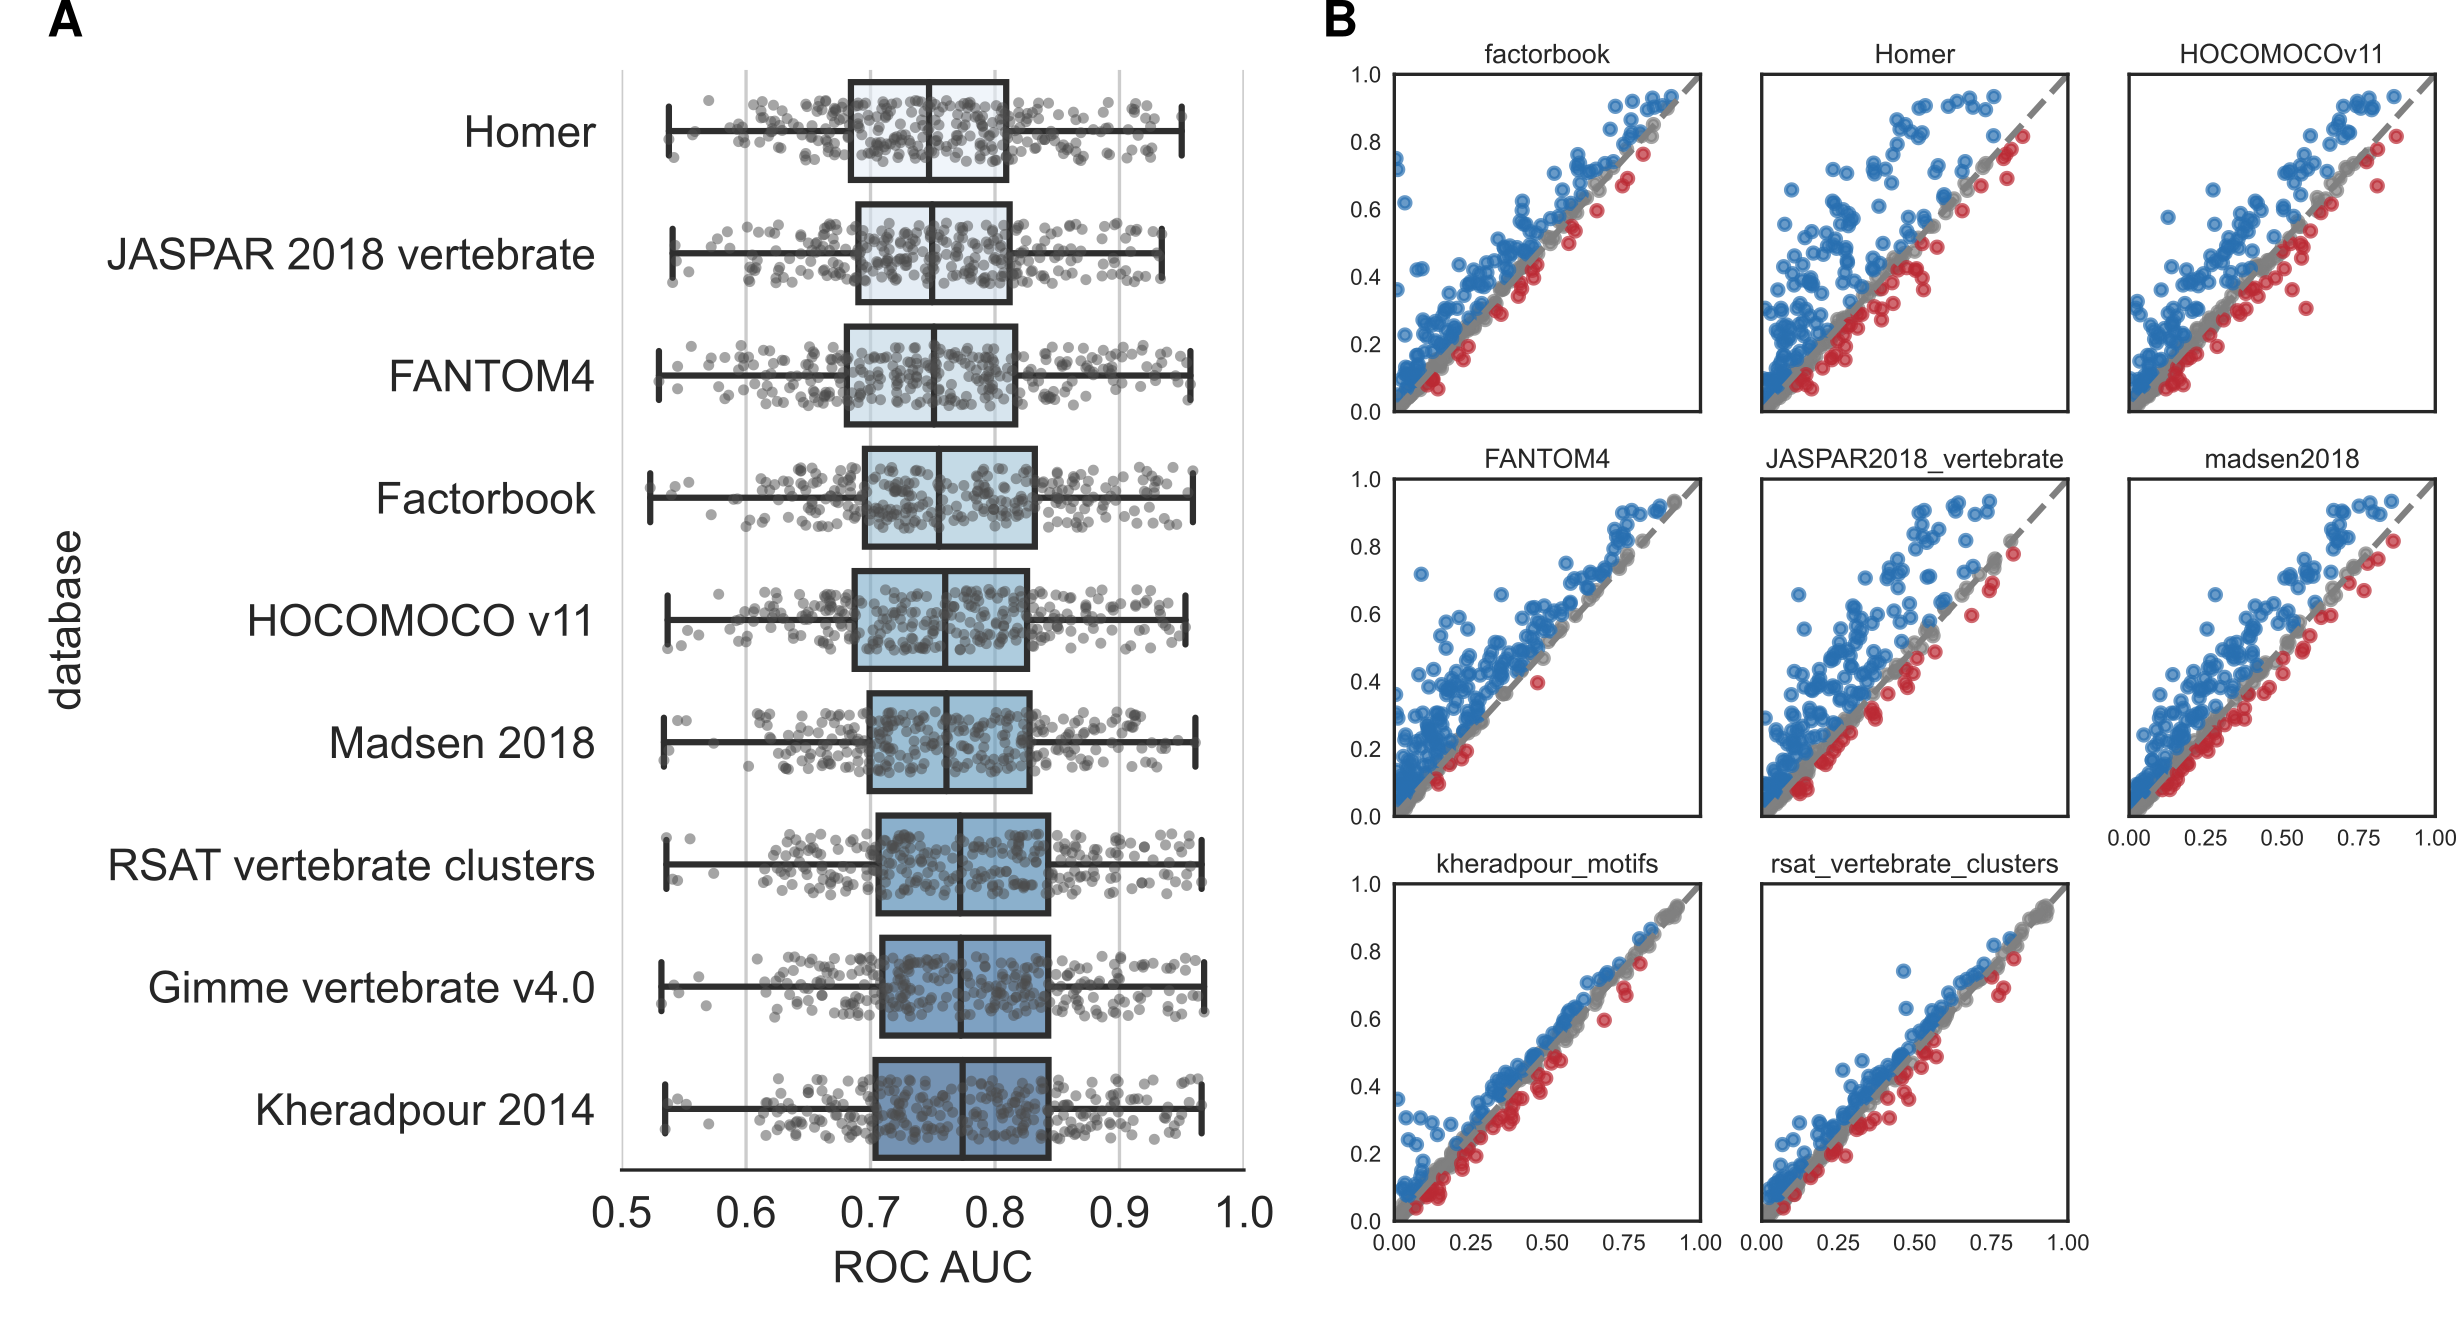
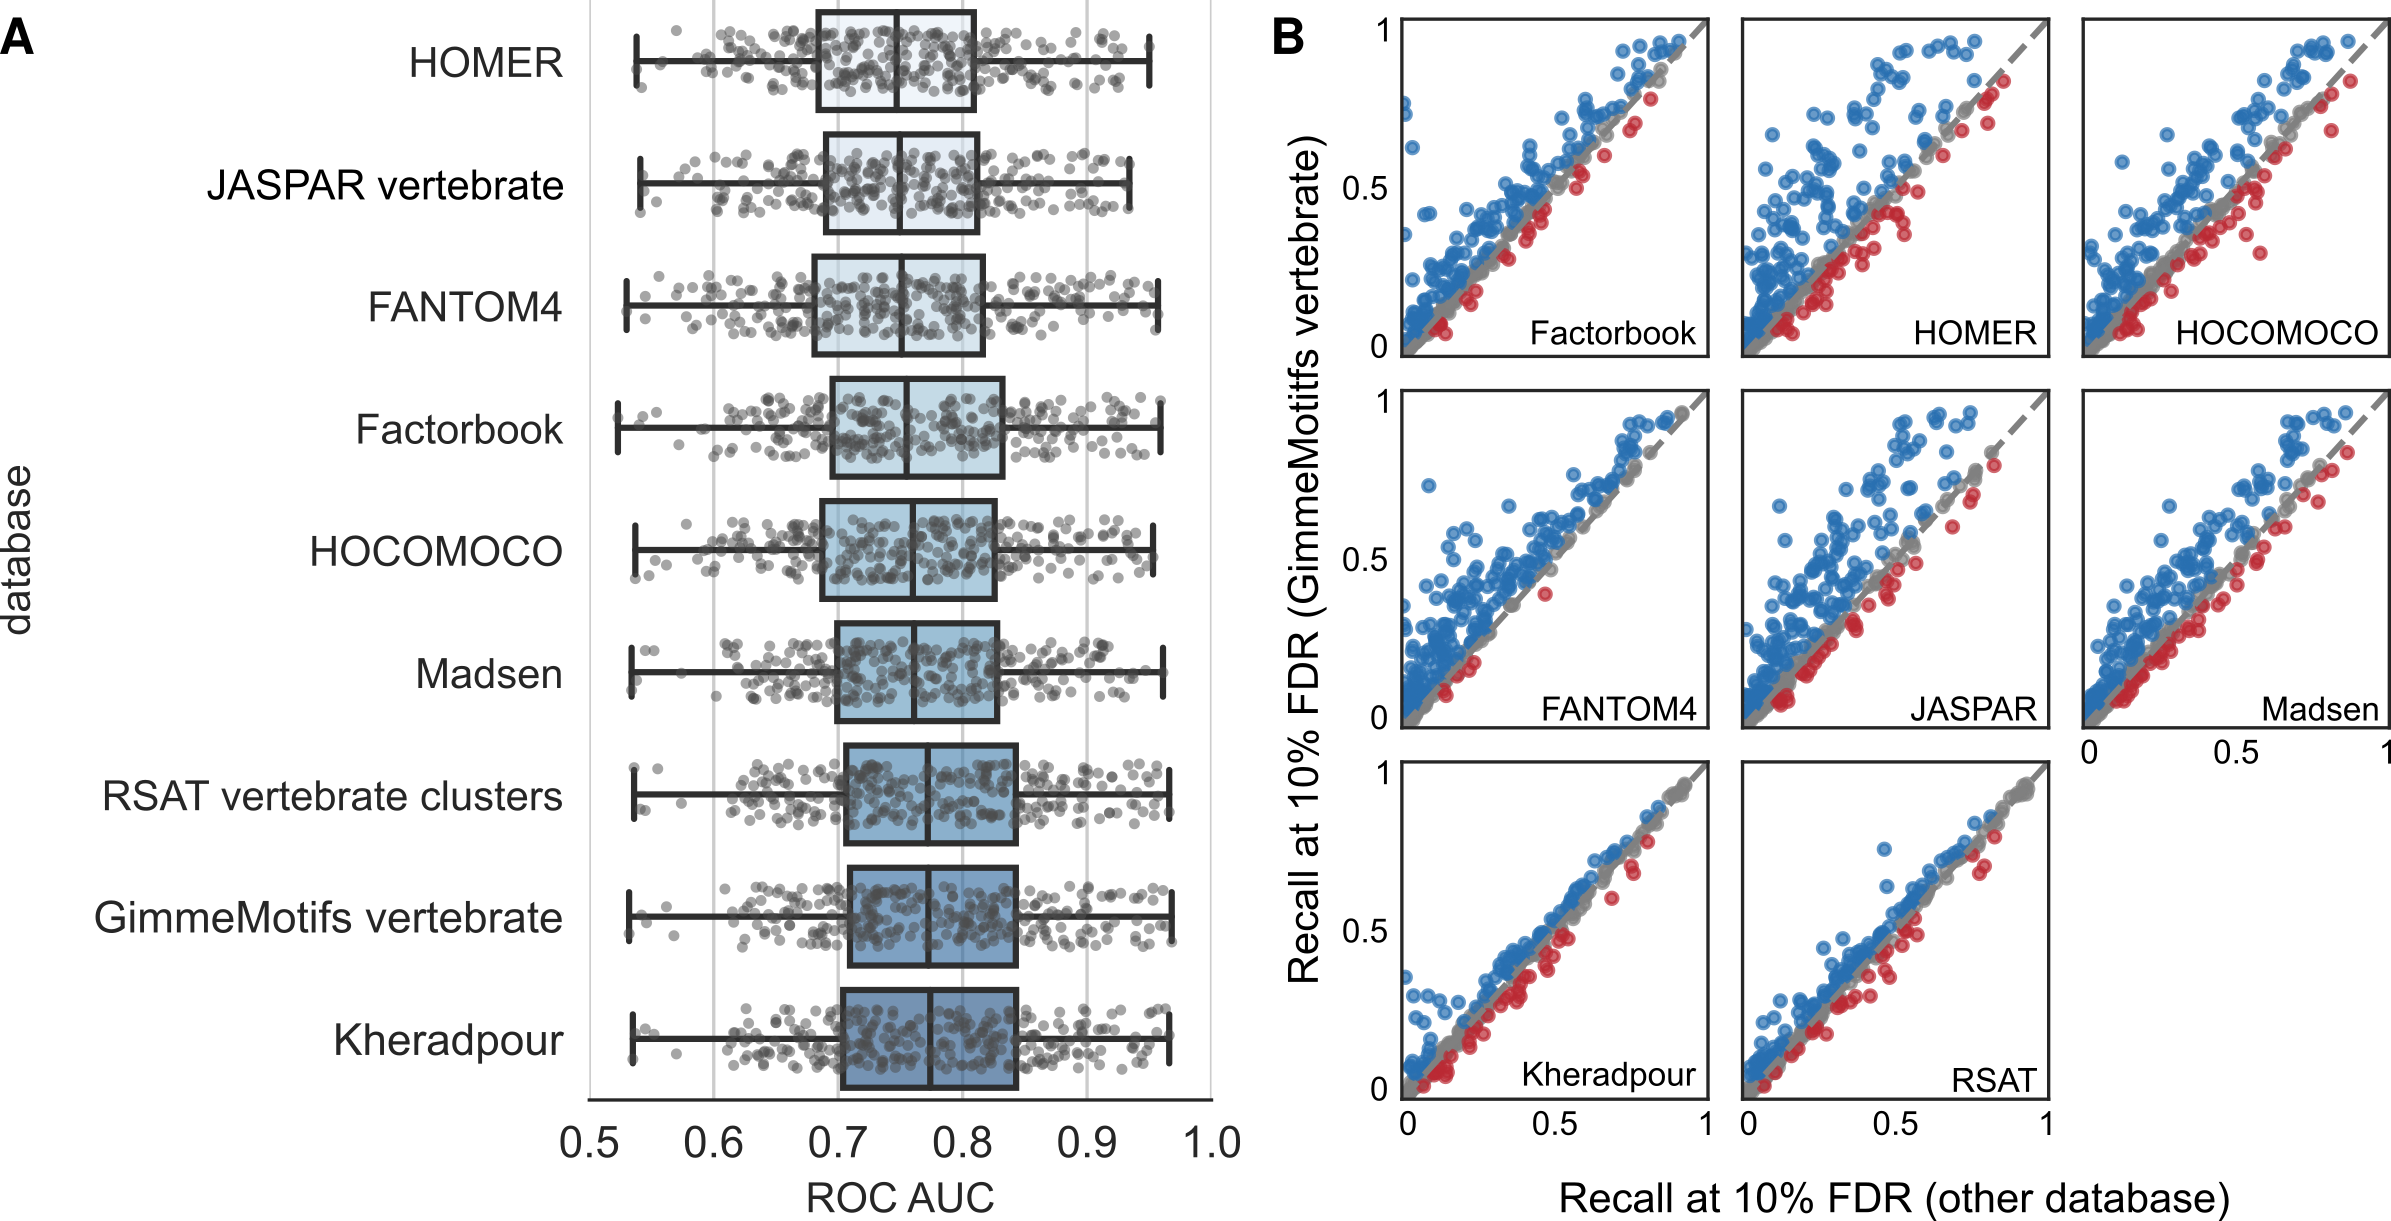
Updated figures

diff --git a/content/03.findings.md b/content/03.findings.md
@@ -103,6 +103,17 @@ factors such as POL2, TAF7 and GTF2B, the PRC2-subunit SUZ12 and the H3K9
 methyltransferase SETDB1. The factors with the highest ROC AUC are CTCF and
 members of the cohesin complex, SMC3 and RAD21, that bind at CTCF sites. 
 
+![**Figure 1**: Benchmark of *de novo* motif finders. 
+**A)** Comparison of the ROC AUC of the best motif of each motif finder. The
+boxplot shows the best motif per peak set of 495 peaks for 270 proteins from
+ENCODE. The best motif from all motif finders is indicated as 'Best'.
+**B)** Comparison of the best motif per motif finder compared to the best
+overall motif for each data set. Plotted is the difference in recall compared to
+the best motif. Recall is calculated at 10% FDR.
+**C)** The relative motif rank as a function of the motif quality. Rank is the
+mean overall rank of three metrics (ROC AUC, recall at 10% FDR and MNCP).
+](content/images/figure_denovo.png)
+
 Generally, the ROC AUC distribution of all evaluated motif finders is very
 similar. However, a few outliers can be observed. Trawler, Posmo and, to a
 lesser extent, GADEM show an overall lower distribution of ROC AUC scores.
